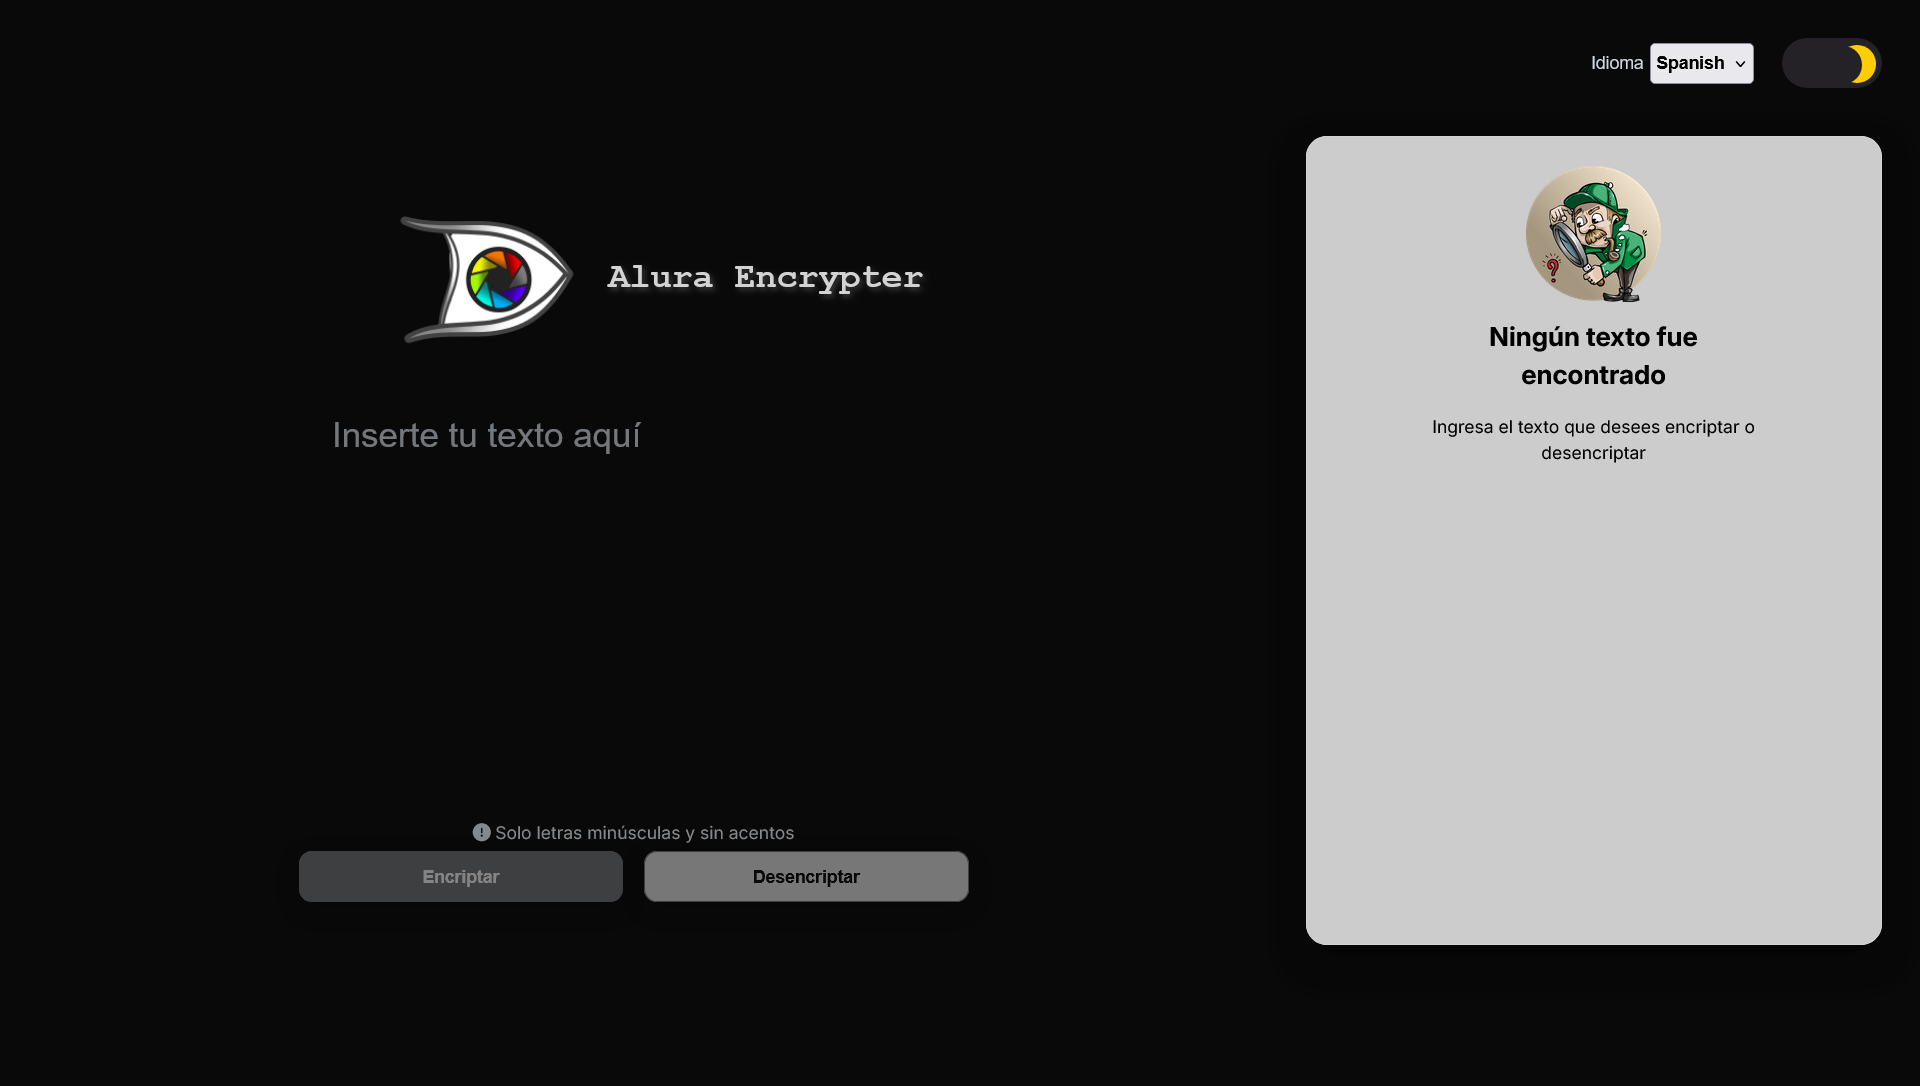
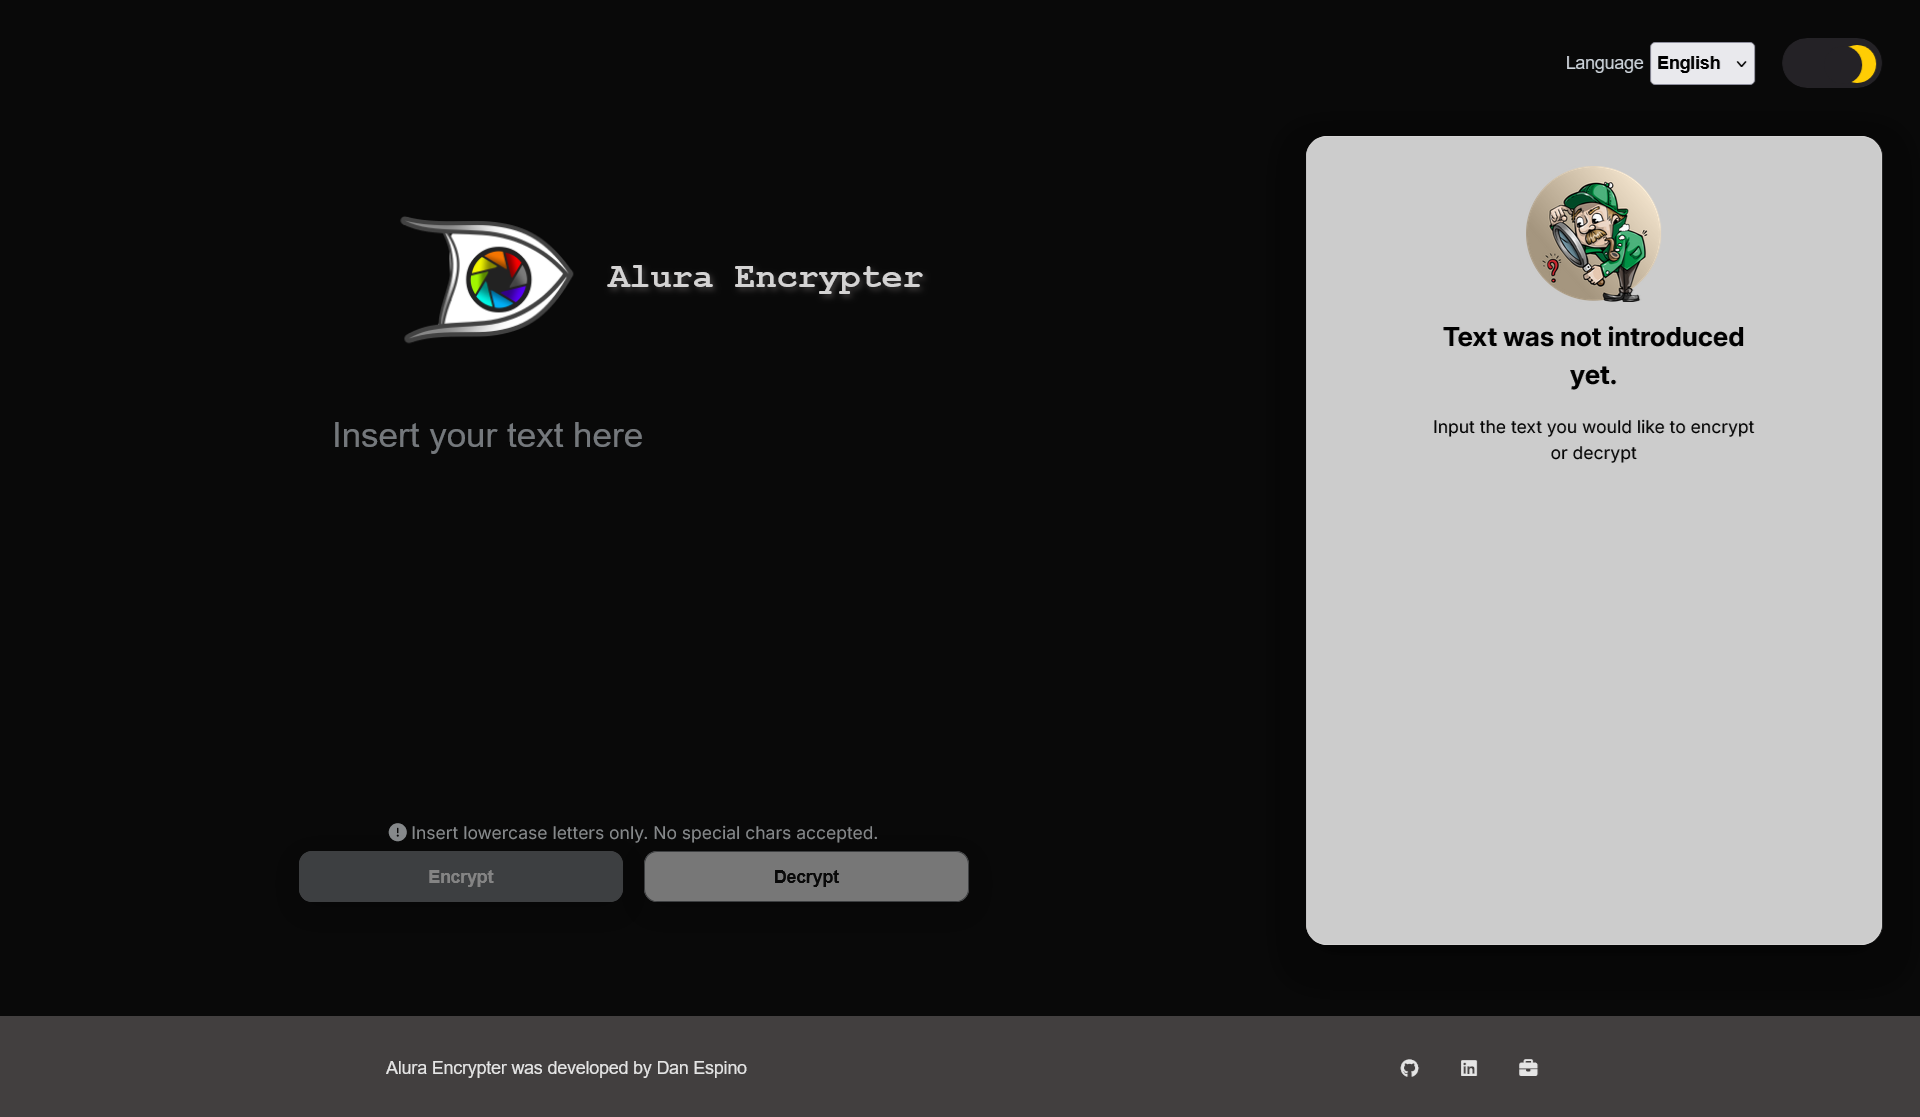
Adds documentation about modal warning

diff --git a/README.md b/README.md
@@ -12,6 +12,11 @@ El desafio comprende elaborar un encriptador de texto sencillo para poner a prue
 ## Screenshots
 A continuación, unas imágenes que muestran el resultado actual de la última release. 
 
+**Modal de Advertencia**
+![](/documentation/images/warnmodal.png)
+
+**`Ahora puedes tener la opción de convertir el caracter prohibido por el algoritmo de Alura, puedes omitir la mayúscula o letra tildada. Así como abortar la conversión y adaptar el mensaje como te resulte más conveniente.`**
+
 **Modo Claro**
 ![](/documentation/images/lightmode.png)
 **Modo Oscuro**
